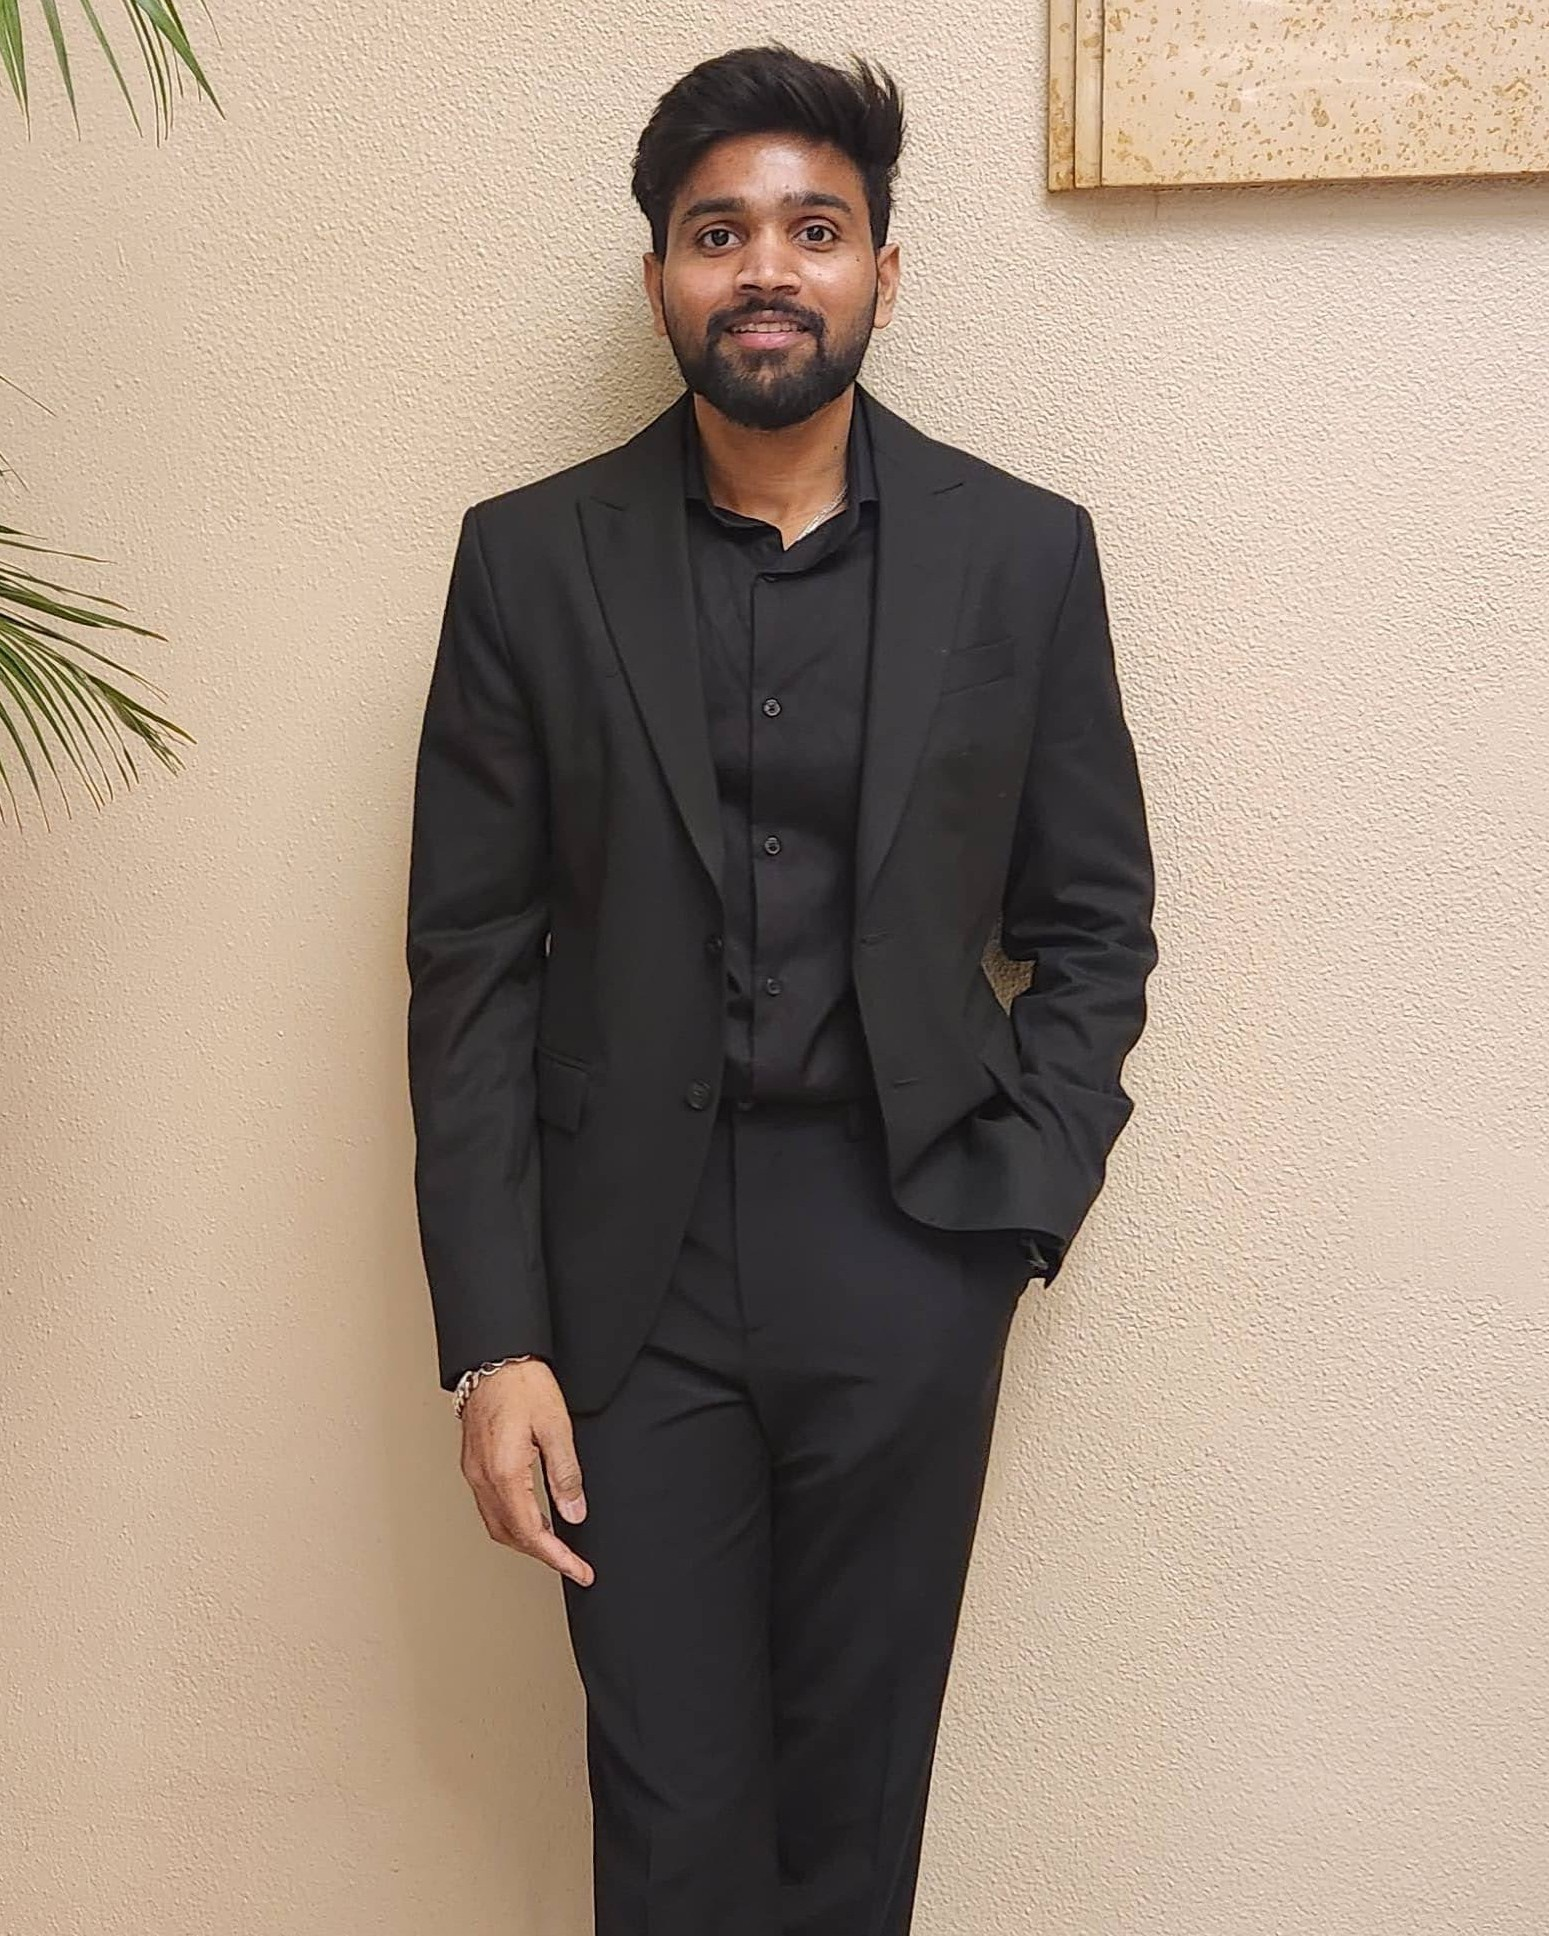
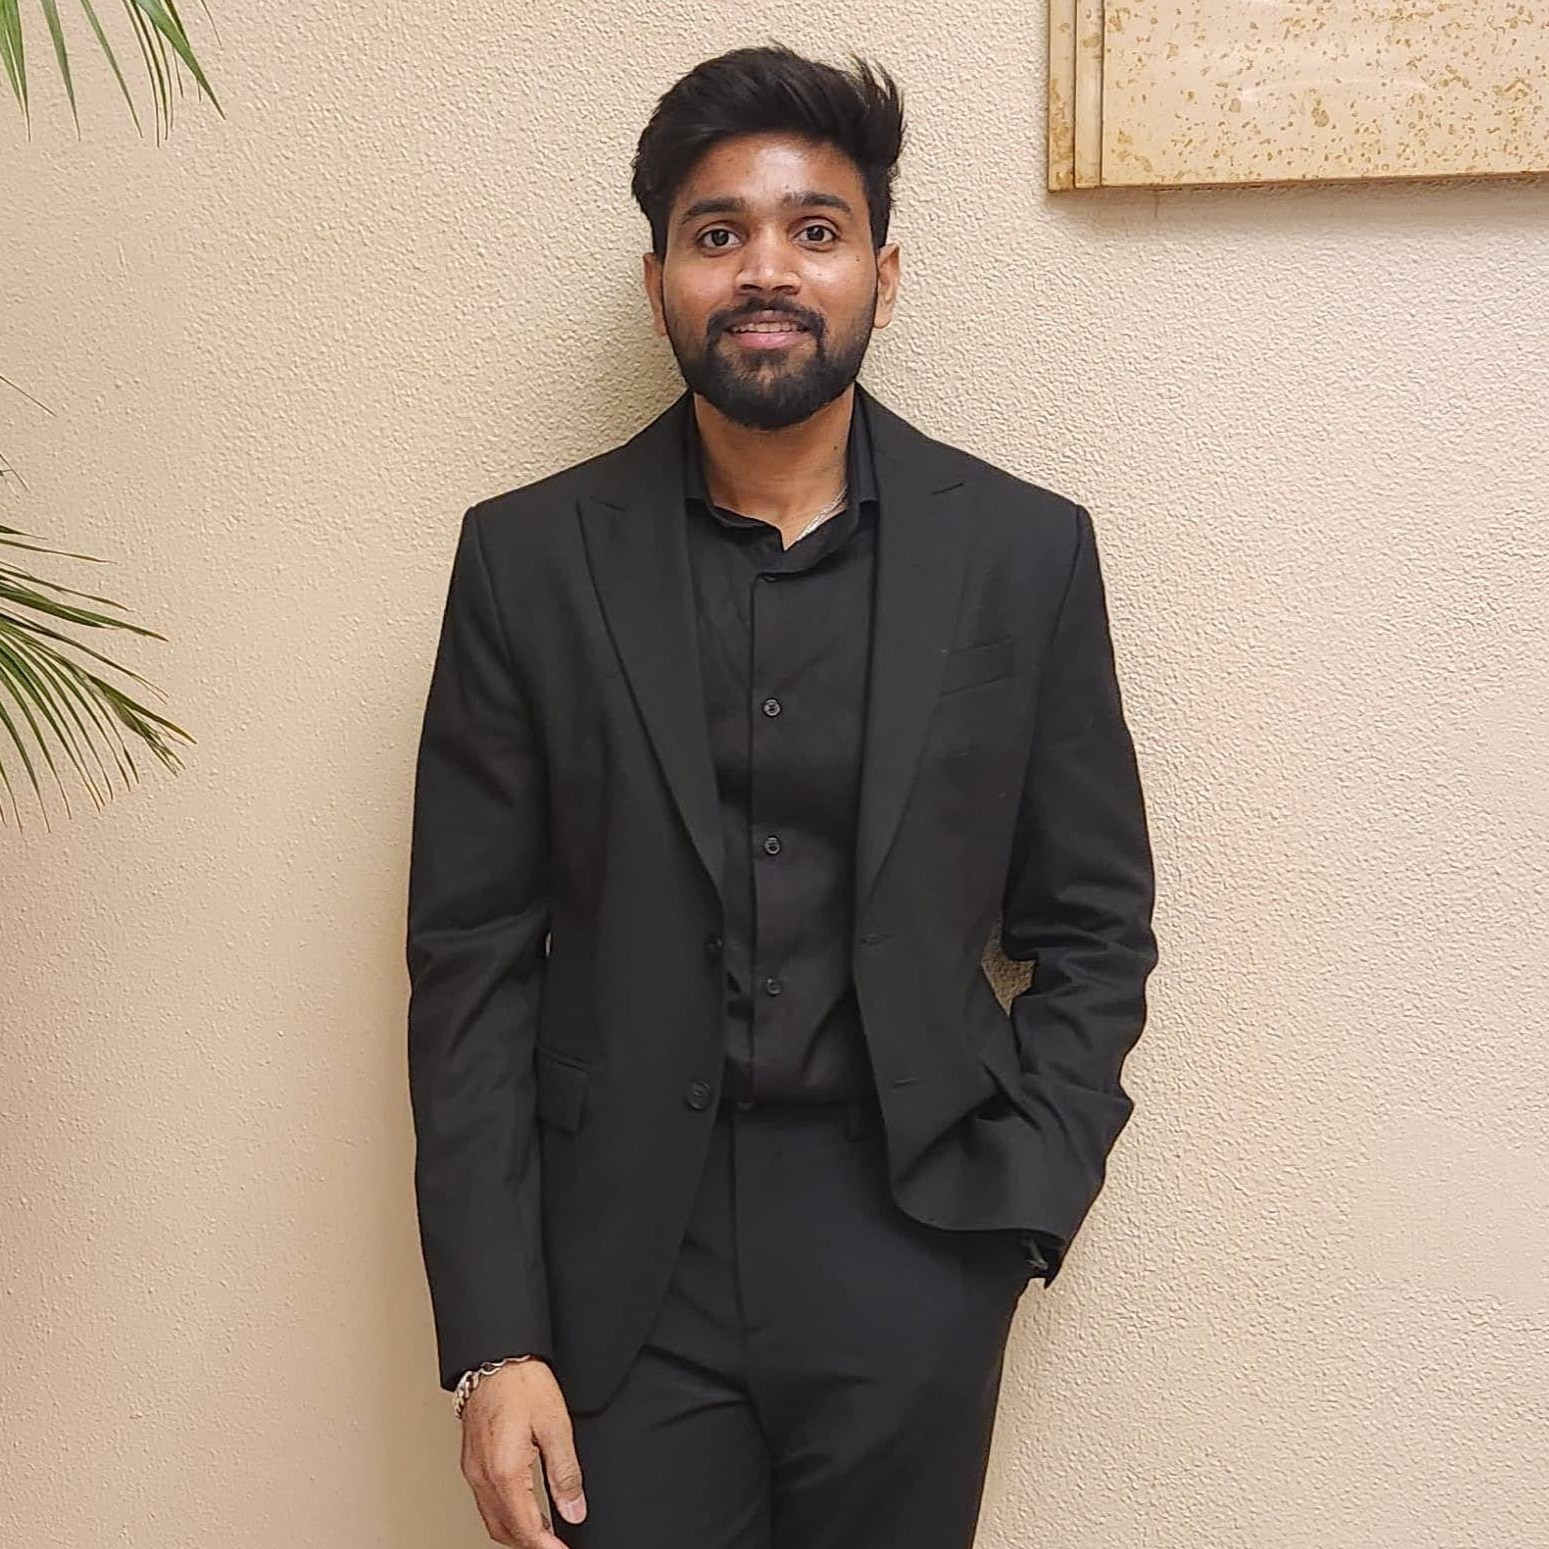
photo resize

diff --git a/index.html b/index.html
@@ -88,7 +88,7 @@
             <a href="https://www.linkedin.com/in/bhargav-chollangi-47871b271" target="_blank" rel="noopener noreferrer" class="social-icon" aria-label="LinkedIn"><i class="bx bxl-linkedin"></i></a>
             <a href="https://github.com/Bhargav1488-max" target="_blank" rel="noopener noreferrer" class="social-icon" aria-label="GitHub"><i class="bx bxl-github"></i></a>
             <a href="mailto:chollangibhargav5@gmail.com" class="social-icon" aria-label="Email"><i class="bx bx-envelope"></i></a>
-            <a href="tel:+33745568880" class="social-icon" aria-label="Phone"><i class="bx bx-phone"></i></a>
+            <a href="#" class="social-icon" aria-label="Phone"><i class="bx bx-phone"></i></a>
           </div>
         </div>
 
